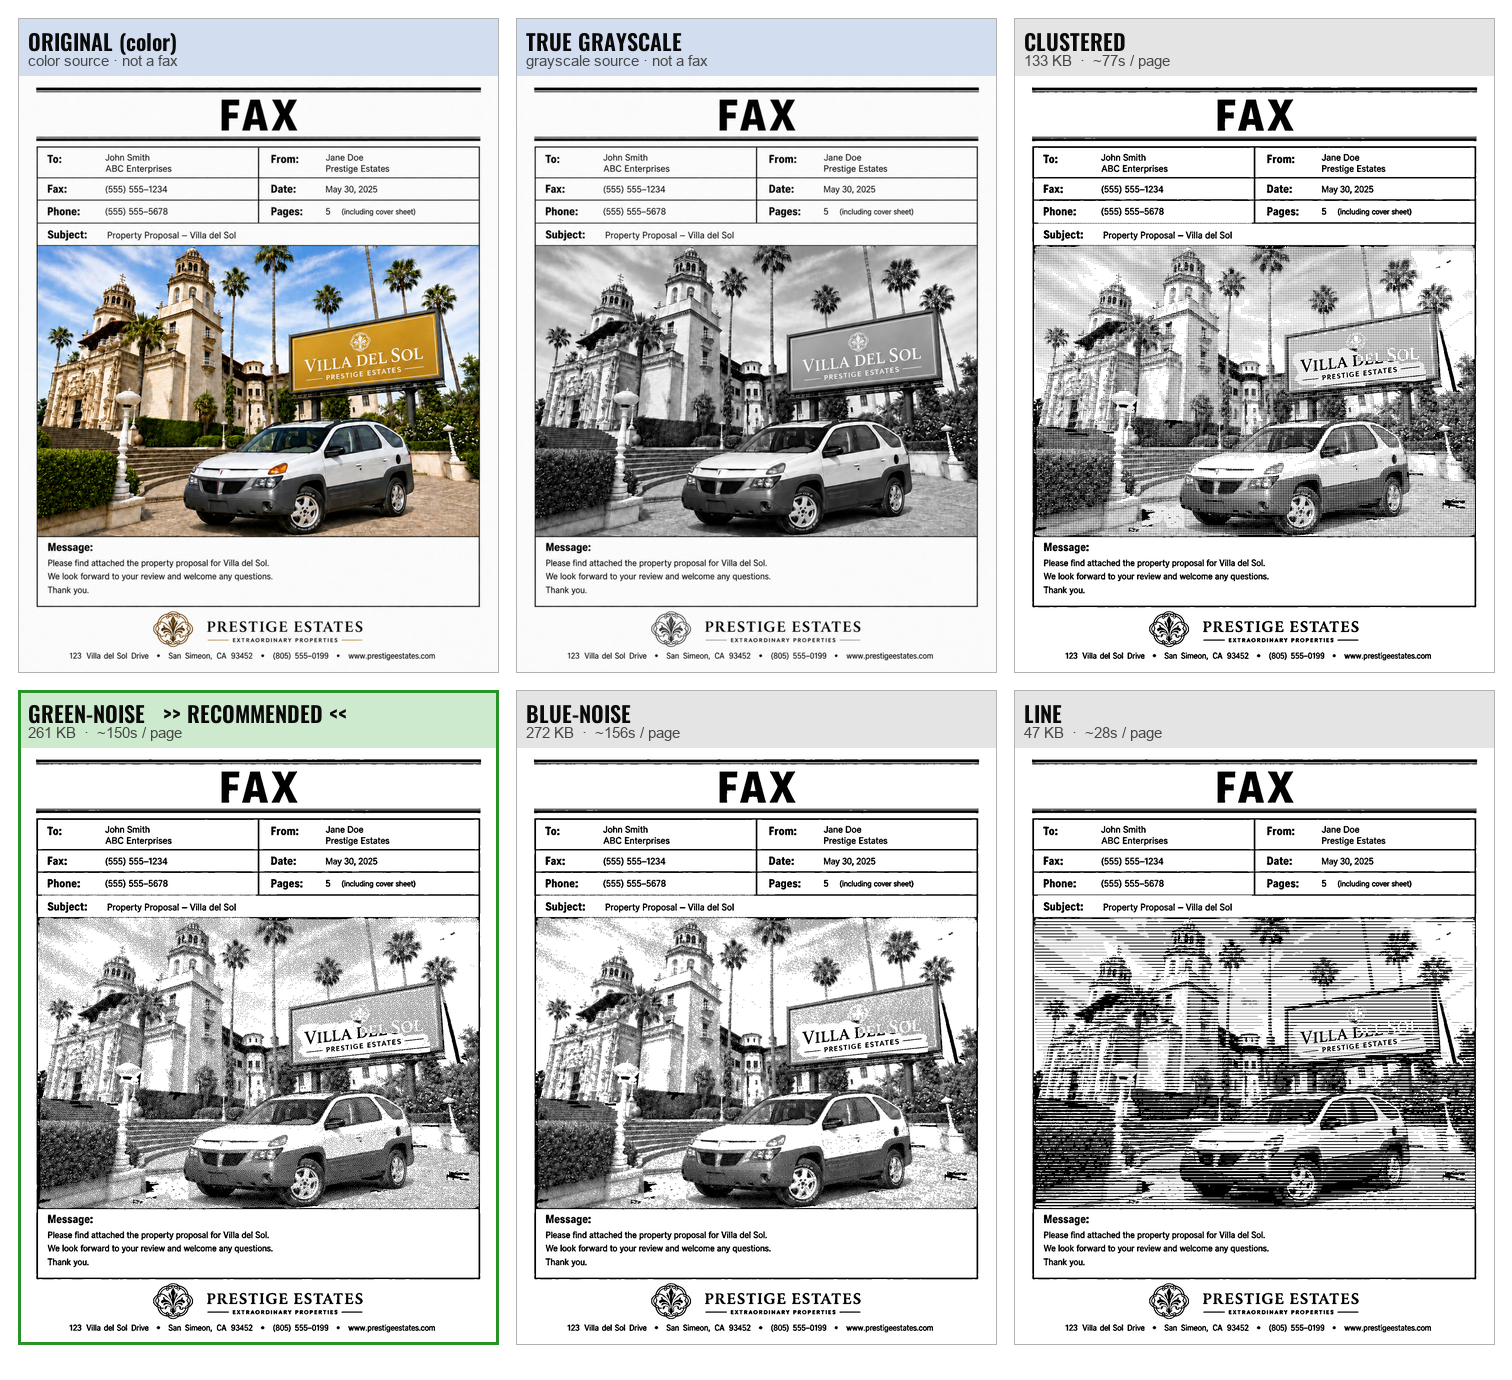
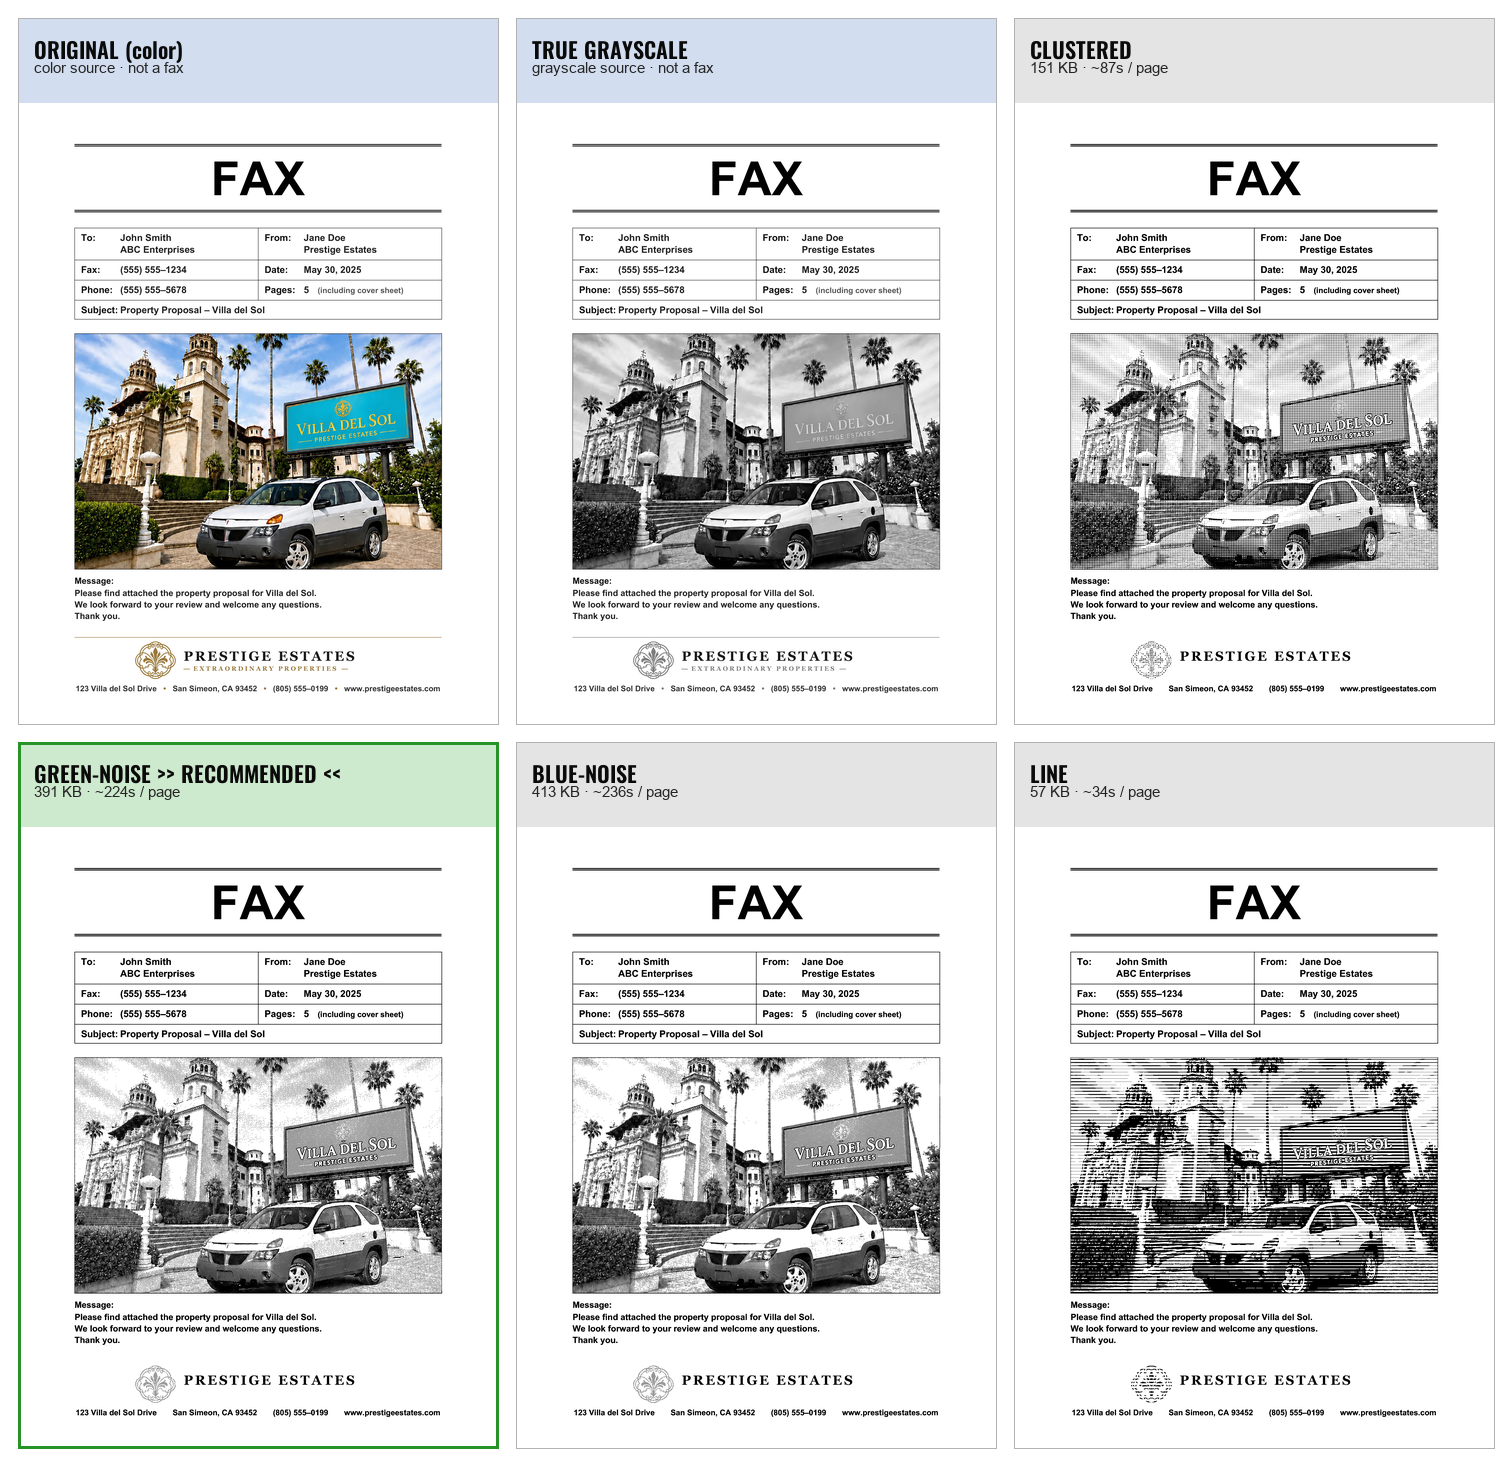
docs(readme): show current recovered text polarity
The comparison illustrates white glyphs on dark backgrounds and black glyphs on light backgrounds, with per-page units.

diff --git a/README.md b/README.md
@@ -214,11 +214,14 @@ disturbs them. Opt in with `--recover-text on`.
 </p>
 
 A deeper recover_text demo — the same **VILLA DEL SOL** billboard rendered
-through six halftone choices, with the OCR'd sign text painted in solid black
-above each halftone screen:
+through six halftone choices, with the OCR'd gold sign text **knocked out to
+white** above each halftone screen. The polarity is content-driven: the
+#808080 luma rule paints recovered glyphs **black** when they sit on light
+backgrounds and **white** when they sit on dark ones, so the sign text reads
+crisply against either side of the halftoned billboard:
 
 <p align="center">
-  <img src="docs/compare_example.png" alt="Six-panel fax comparison showing original color, true grayscale washing out the colored sign text, and four fax halftone treatments with the text rescued to solid black" width="100%">
+  <img src="docs/compare_example.png" alt="Six-panel fax comparison showing original color, true grayscale washing out the gold sign text into the dark billboard background, and four fax halftone treatments with the OCR-recovered sign text knocked out to white above each halftone screen so it reads crisply on the dark billboard" width="100%">
 </p>
 
 ### Inspect before sending — `--sample N` and the auto-picker's reasoning
